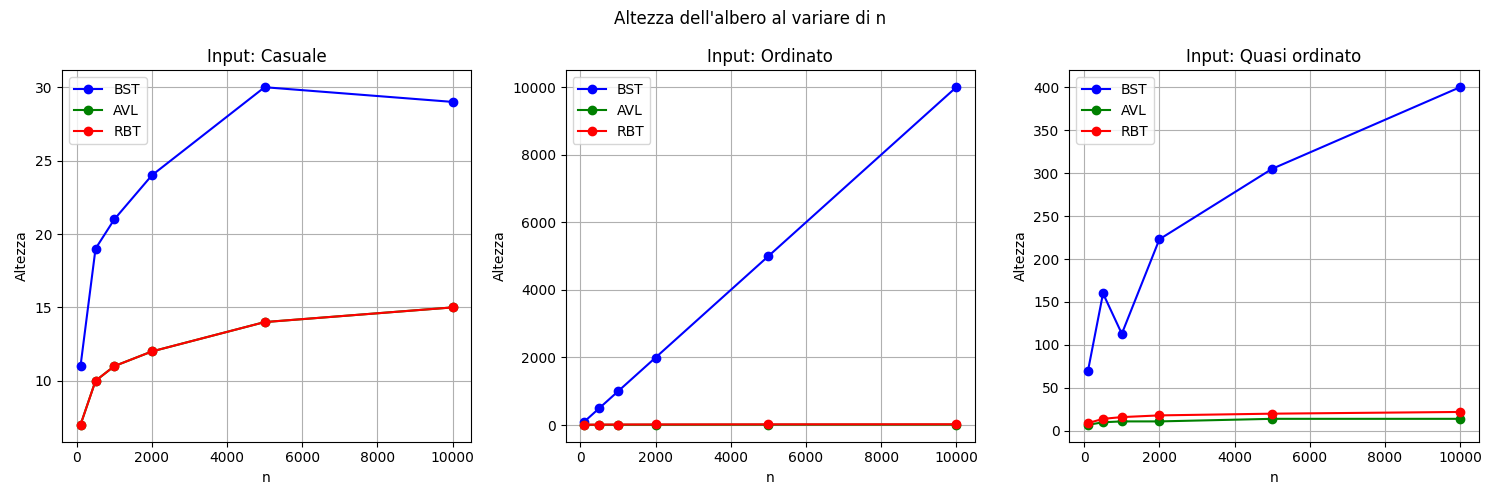
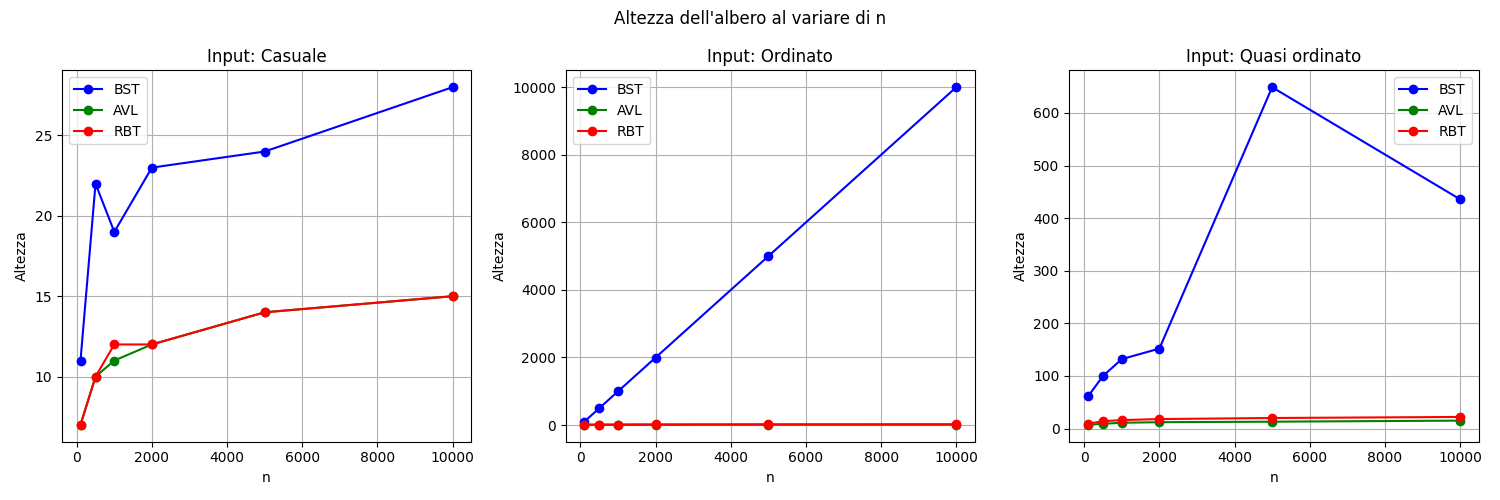
feat: Aggiunta di un seed per la generazione casuale dei dati in base al numero di interi richiesti

diff --git a/main.py b/main.py
@@ -15,6 +15,7 @@ def generate_random(n: int) -> list[int]:
         n: il numero di interi da generare
     Returns: una lista di n numeri interi casuali univoci
     """
+    np.random.seed(n)
     numbers = np.random.randint(0, n * 10, size=n)
     return cast(np.ndarray, numbers).tolist()
 
@@ -36,6 +37,7 @@ def generated_almost_sorted(n: int) -> list[int]:
         n: numero di chiavi da generare
     Returns: lista di n interi quasi ordinati
     """
+    np.random.seed(n)
     keys = list(range(n))
     num_swap = max(1, n // 20)  # Scambia almeno 1 coppia o il 5% delle coppie
     for _ in range(num_swap):
@@ -136,7 +138,6 @@ def run_experiments(sizes: list[int]) -> dict:
 
 
 if __name__ == '__main__':
-    np.random.seed(42)
     sizes = [100, 500, 1000, 2000, 5000, 10000]
     results = run_experiments(sizes)
     generate_all_plots(results)
